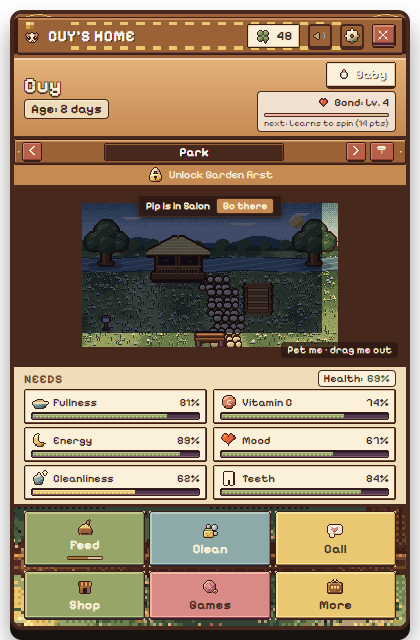
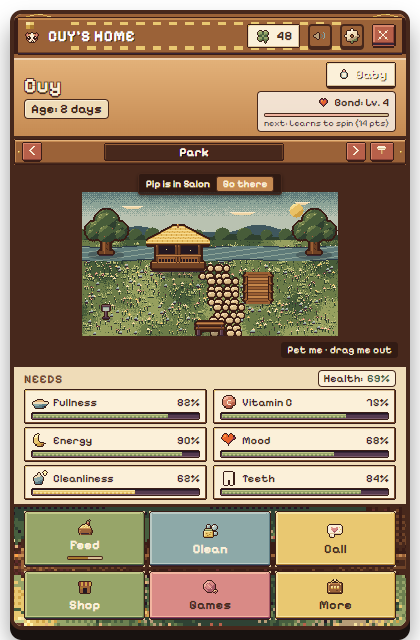
Fix locked overlay canvas dimensions and unlock scenes for owner shots

Changed region(s): [[0.031, 0.25, 0.9905, 0.5625], [0.4024, 0.625, 0.4643, 0.6562]]

diff --git a/tools/qa/ux-p70-owner-shots.js b/tools/qa/ux-p70-owner-shots.js
@@ -52,8 +52,15 @@ async function main() {
       window.__cuyNow = '12:00';
       if (window.CuyScenesMock && window.bridge && window.bridge.currentState) {
         const st = window.CuyScenesMock.state('seven');
+        if (st.places && Array.isArray(st.places.order)) {
+          st.places.order.forEach(o => { if (o) o.locked = false; });
+        }
+        if (st.places && Array.isArray(st.places.places)) {
+          st.places.places.forEach(p => { if (p) p.unlocked = true; });
+        }
         window.bridge.currentState.places = st.places;
         if (st.rooms) window.bridge.currentState.rooms = st.rooms;
+        if (window.bridge.currentState.farm) window.bridge.currentState.farm.unlocked = true;
         window.bridge.broadcastState();
       }
     });

diff --git a/web/home/features/places/feature.js b/web/home/features/places/feature.js
@@ -1030,11 +1030,11 @@
       }
 
       if (window.CuyRoom && typeof window.CuyRoom.addLayer === 'function') {
-        window.CuyRoom.addLayer('p36_locked_overlay', 25, (ctx) => {
+        window.CuyRoom.addLayer('p36_locked_overlay', 25, (ctx, scene) => {
           ctx.save();
           ctx.globalCompositeOperation = 'multiply';
           ctx.fillStyle = 'rgb(87, 98, 150)';
-          ctx.fillRect(0, 0, 240, 130);
+          ctx.fillRect(0, 0, (scene && scene.width) || 256, (scene && scene.height) || 144);
           ctx.restore();
         });
       }
